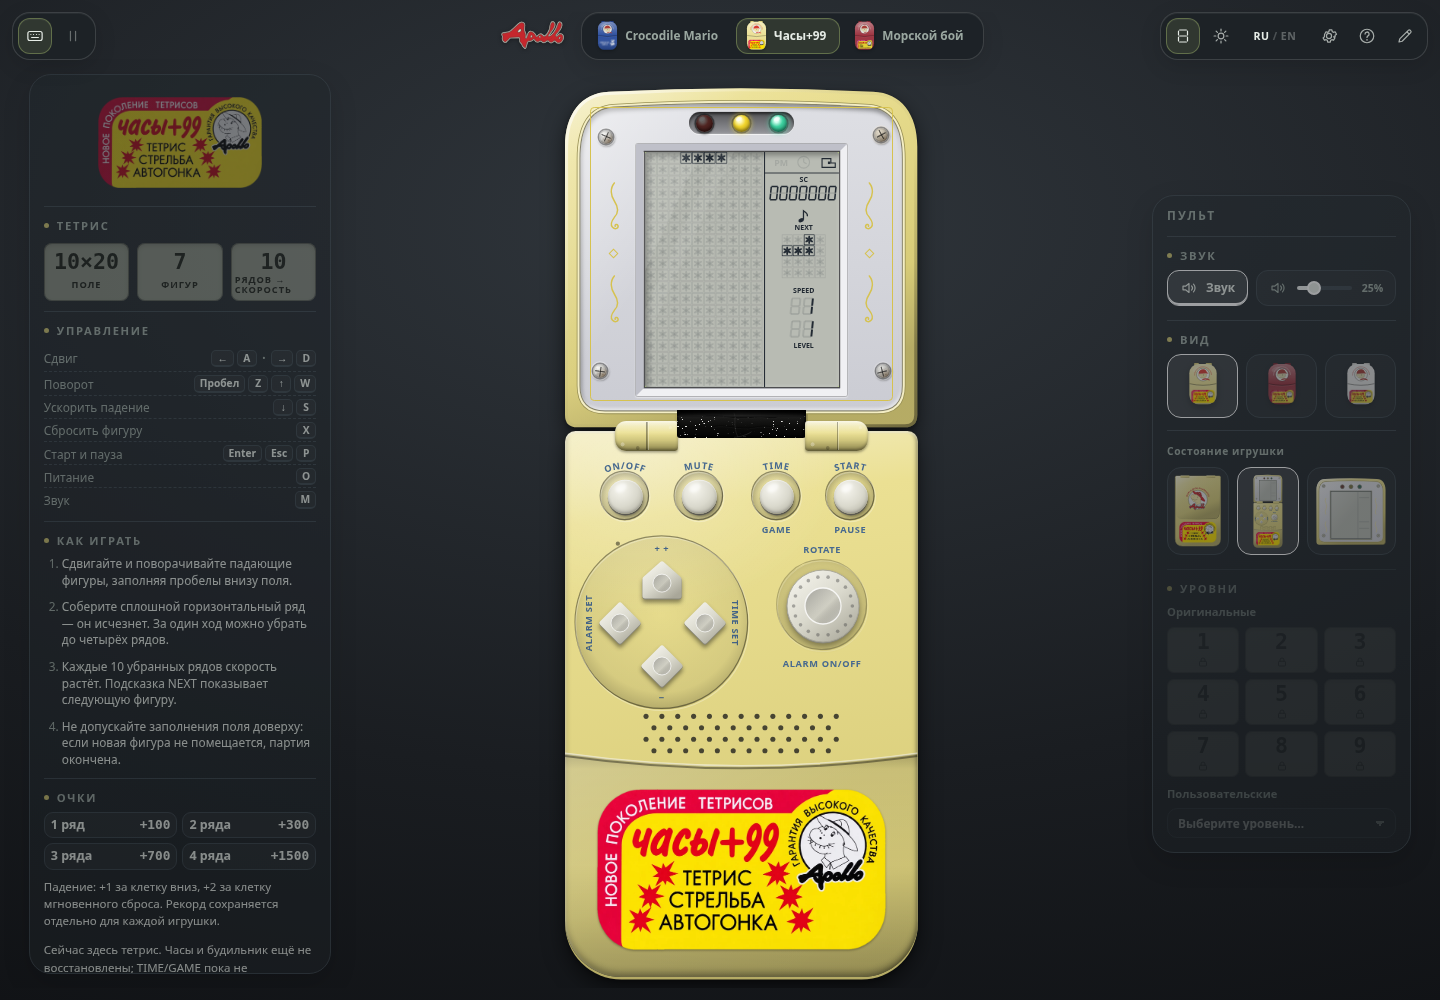
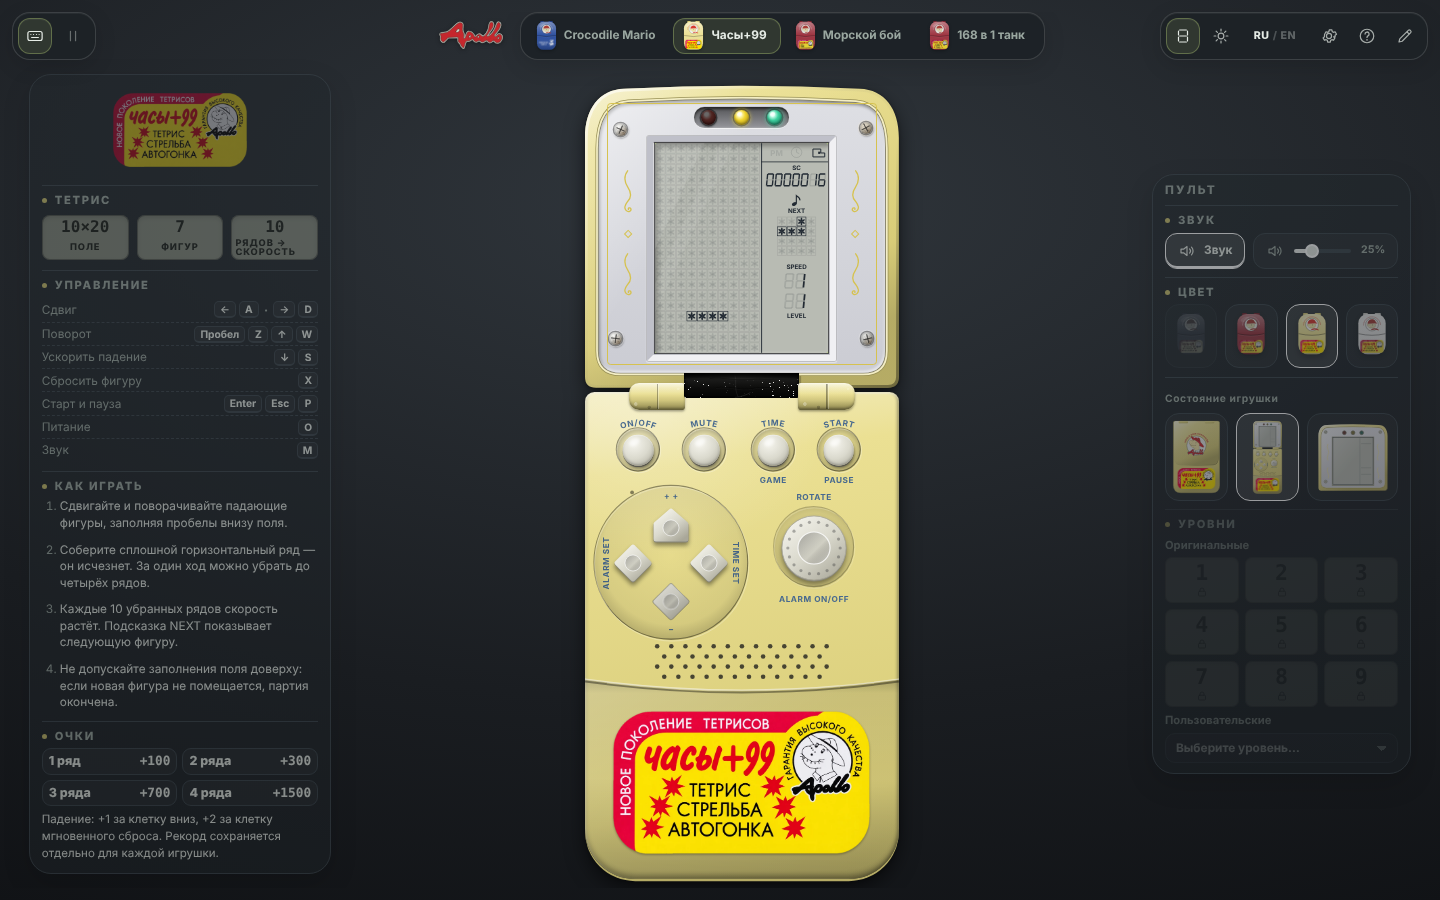
Тесты панели «Цвет» у «Часов+99» и «Морского боя», снимок «168 в 1 танк» для docs
- Панель «Цвет» всегда из четырёх цветов: проверяем порядок, disabled у
  неподтверждённых и что клик по ним цвет не меняет.
- Снимок docs/screenshots/toys-tank168.png (и обновлённые снимки других игрушек).

Claude-Session: https://claude.ai/code/session_01GdY4jBdPkN1x2P6sPDFyhq

diff --git a/tests/smoke/toys.spec.ts b/tests/smoke/toys.spec.ts
@@ -116,11 +116,15 @@ test.describe('«Часы+99»', () => {
     await open(page, 'clock99');
     await expect(page.locator('#toy')).toHaveAttribute('data-shell', 'yellow');
     const picks = page.locator('#shell-picker .shellpick__btn');
-    await expect(picks).toHaveCount(3);
-    expect(await picks.evaluateAll((buttons) => buttons.map((b) => b.getAttribute('data-shell')))).toEqual(['yellow', 'red', 'white']);
+    // Панель «Цвет» всегда из четырёх цветов; неподтверждённый (синий) — disabled и не переключает.
+    await expect(picks).toHaveCount(4);
+    expect(await picks.evaluateAll((buttons) => buttons.map((b) => b.getAttribute('data-shell')))).toEqual(['blue', 'red', 'yellow', 'white']);
+    expect(await picks.evaluateAll((buttons) => buttons.map((b) => b.getAttribute('aria-disabled') === 'true'))).toEqual([true, false, false, false]);
+    await picks.nth(0).click({ force: true });
+    await expect(page.locator('#toy')).toHaveAttribute('data-shell', 'yellow');
     await picks.nth(1).click();
     await expect(page.locator('#toy')).toHaveAttribute('data-shell', 'red');
-    await picks.nth(2).click();
+    await picks.nth(3).click();
     await expect(page.locator('#toy')).toHaveAttribute('data-shell', 'white');
   });
 
@@ -261,8 +265,11 @@ test.describe('«Морской бой»', () => {
     const border = await page.locator('.lid__bezel').evaluate((el) => getComputedStyle(el, '::before').borderTopWidth);
     expect(parseFloat(border)).toBeGreaterThan(1);
     const picks = page.locator('#shell-picker .shellpick__btn');
-    expect(await picks.evaluateAll((buttons) => buttons.map((b) => b.getAttribute('data-shell')))).toEqual(['red', 'blue']);
-    await picks.nth(0).click();
+    expect(await picks.evaluateAll((buttons) => buttons.map((b) => b.getAttribute('data-shell')))).toEqual(['blue', 'red', 'yellow', 'white']);
+    expect(await picks.evaluateAll((buttons) => buttons.map((b) => b.getAttribute('aria-disabled') === 'true'))).toEqual([false, false, true, true]);
+    await picks.nth(2).click({ force: true }); // жёлтого у «Морского боя» нет — остаётся синий
+    await expect(page.locator('#toy')).toHaveAttribute('data-shell', 'blue');
+    await picks.nth(1).click();
     await expect(page.locator('#toy')).toHaveAttribute('data-shell', 'red');
   });
 
